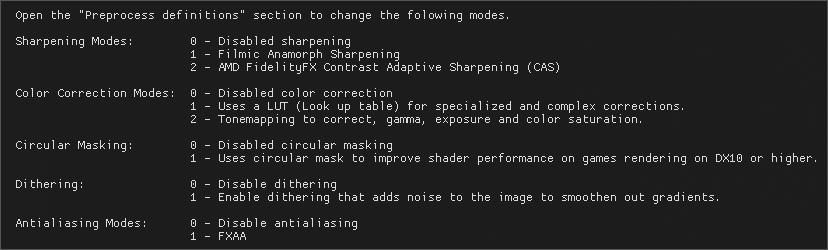
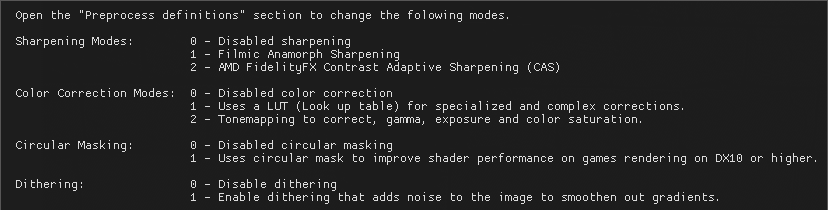
Updated documentation for the new Reshade version and additions

diff --git a/docs/gamelist.md b/docs/gamelist.md
@@ -12,43 +12,44 @@ Additionally they contain color corrections LUT especially created for the game.
 - [GTR 2](https://www.racedepartment.com/downloads/retrolux-reshade-gtr2.42342/)
 - [Richard Burns Rally](https://www.racedepartment.com/threads/reshade-preset-for-rbr.166023/)
 
+### Open XR (Available with ReShade v5.9.3 or higher)
+Games using OpenXR or when you use the OpenXR Toolkit you need to use the [Reshade Setup](https://github.com/retroluxfilm/reshade-vrtoolkit/releases/download/v1.1.0/ReShade.Setup_5.9.3-preview.exe) to
+install the OpenXR ReShade layer to be able to use ReShade. 
 
-### Working
+*Note: ReShade will then be enabled for all open XR Games if you place the vrtoolkit besides the executable of the game*
+
+### Working (Examples)
 Here is a list of tested games that work with ReShade.
 Many more will work and require to figure out what settings it needs.
 Feel free to contribute to get that list up to date :)
 
-| Game                                | DLL         | Rename To      | Extract to Folder                    |
-| ----------------------------------- | -----------:| --------------:|------------------------------------- |
-| American Truck Simulator            |          64 |  dinput8.dll   | bin\win_x64                          |
+| Game                                | DLL |       Rename To | Extract to Folder            |
+| ----------------------------------- |----:|----------------:|------------------------------|
+| American Truck Simulator            |  64 |     dinput8.dll | bin\win_x64                  |
 | [Automobilista 1](https://www.racedepartment.com/downloads/retrolux-reshade-automobilista.30742/)         |
-| Automobilista 2                     |          64 |  dinput8.dll   | next to AMS2.exe                     |
-| Asseto Corsa                        |          64 |  dxgi.dll      | next to AssettoCorsa.exe             |
-| Asseto Corsa Competizione           |          64 |  dxgi.dll      | AC2\Binaries\Win64                   |
-| Beat Saber                          |          64 |  dxgi.dll      | next to "Beat Saber.exe"             |
-| DCS World                           |          64 |  dxgi.dll      | bin                                  |
-| Dirt Rally (With Revive)            |          32 |  dxgi.dll      | next to drt.exe                      |
-| Dirt Rally 2                        |          64 |  dinput8.dll   | next to dirtrally2.exe               |
-| Elite Dangerous                     |          64 |  d3d11.dll     | next to EliteDangerous64.exe         |
-| Euro Truck Simulator 2              |          64 |  dinput8.dll   | bin\win_x64                          |
+| Automobilista 2                     |  64 |     dinput8.dll | next to AMS2.exe             |
+| Asseto Corsa                        |  64 |        dxgi.dll | next to AssettoCorsa.exe     |
+| Asseto Corsa Competizione           |  64 |        dxgi.dll | AC2\Binaries\Win64           |
+| Beat Saber                          |   - | [Open XR]() | next to "Beat Saber.exe"     |
+| DCS World                           |  64 |        dxgi.dll | bin                          |
+| Dirt Rally (With Revive)            |  32 |        dxgi.dll | next to drt.exe              |
+| Dirt Rally 2                        |  64 |     dinput8.dll | next to dirtrally2.exe       |
+| Elite Dangerous                     |  64 |       d3d11.dll | next to EliteDangerous64.exe |
+| Euro Truck Simulator 2              |  64 |     dinput8.dll | bin\win_x64                  |
 | [GTR 2](https://www.racedepartment.com/downloads/retrolux-reshade-gtr2.42342/) |
-| Google Earth VR                     |          64 |  opengl32.dll  | next to Earth.exe                    |
-| Half Life Alyx                      |          64 |  kernel32.dll  | game\bin\win64                       |
-| IL-2 Sturmovik Battle of Stalingrad |          64 |  dxgi.dll      | bin\game                             |
-| Project Cars 2                      |          64 |  dinput8.dll   | next to pCARS2.exe                   |
-| Race Room Experience 64 Bit         |          64 |  dxgi.dll      | Game\x64\                            |    
-| Race Room Experience 32 Bit         |          32 |  dxgi.dll      | Game\                                |
-| [Richard Burns Rally](https://www.racedepartment.com/threads/reshade-preset-for-rbr.166023/) |
-| rFactor 2                           |          64 |  dxgi.dll      | Bin64                                |
-| Skyrim VR                           |          64 |  dxgi.dll      | next to SkyrimVR.exe                 |
-| VR Chat                             |          64 |  dxgi.dll      | next to VRChat.exe                   |
-| VTOL VR                             |          64 |  dxgi.dll      | next to VTOLVR.exe                   |
-| The Walking Dead Saints and Sinners |          64 |  dxgi.dll      | TWD\Binaries\Win64\                  |
-| X-Plane 11                          |          64 |  opengl32.dll  | next to X-Plane.exe                  |
-
-### Not Working
-
-- None reported yet
+| Google Earth VR                     |  64 |    opengl32.dll | next to Earth.exe            |
+| Half Life Alyx                      |  64 |    kernel32.dll | game\bin\win64               |
+| IL-2 Sturmovik Battle of Stalingrad |  64 |        dxgi.dll | bin\game                     |
+| Project Cars 2                      |  64 |     dinput8.dll | next to pCARS2.exe           |
+| Race Room Experience 64 Bit         |  64 |        dxgi.dll | Game\x64\                    |    
+| Race Room Experience 32 Bit         |  32 |        dxgi.dll | Game\                        |
+| [Richard Burns Rally](https://www.racedepartment.com/threads/reshade-preset-for-rbr.166023/) 
+| rFactor 2                           |  64 |        dxgi.dll | Bin64                        |
+| Skyrim VR                           |  64 |        dxgi.dll | next to SkyrimVR.exe         |
+| VR Chat                             |  64 |        dxgi.dll | next to VRChat.exe           |
+| VTOL VR                             |  64 |        dxgi.dll | next to VTOLVR.exe           |
+| The Walking Dead Saints and Sinners |  64 |        dxgi.dll | TWD\Binaries\Win64\          |
+| X-Plane 11                          |  64 |    opengl32.dll | next to X-Plane.exe          |
 
 ## Known Issues
 

diff --git a/docs/presets.md b/docs/presets.md
@@ -9,16 +9,22 @@ Select the prests below by using the arrow buttons on the left side of the prese
 
 `generic_vr` (Default)  
 Base preset is configured to work without modification for almost all VR titles to look 
-natural without adding artifacts.
+natural without adding artifacts. (Custom CAS Sharpening)
 
 `generic_vr+`  
 Sharper than the base preset, balanced to not introduce a lot artifacts. 
 
+`generic_vr++`  
+Sharper than the vr+ preset, which can introduce artifacts or aliasing. (mostly useful for high resolution VR) 
+
 `generic_filmic_vr`  
-Like the base preset but uses "Filmic Anamorph Sharpening" for sharpening instead & dithering to reduce banding.
+Like the base preset but uses "Filmic Anamorphic Sharpening" for sharpening instead & dithering to reduce banding.
 
 `generic_filmic_vr+`  
-Sharper than the filmic preset but introduces artifacts.
+Sharper than the filmic preset, balanced to not introduce a lot artifacts.
+
+`generic_filmic_vr++`  
+Sharper than the filmic+ preset, which can introduce artifacts or aliasing. (mostly useful for high resolution VR)
 
 ### How to select a Preset
 ![VRToolkit presets](./assets/images/vrtoolkit_presets.png "VRToolkit presets")

diff --git a/docs/index.md b/docs/index.md
@@ -12,11 +12,7 @@ to enhance the clarity & sharpness in VR to get most out of your HMD while keepi
 - Sharpening Modes for enhanced clarity while only processing the pixels that are in the sweet spot of your HMD
 - Color Correction Modes to be able to adjust your HMD colors & contrast to your liking
 - Dithering to reduce banding effects of gradients and sharpening artifacts
-- Antialiasing option to reduce aliasing/shimmering effects when the in game AA modes are not enough
 - All modules are processed in a single render pass post shader to improve performance instead of having them all separate
-
-*Note: ReShade currently only works on games run through SteamVR. (OpenVR API)*
-
 
 ### 100% Crop Comparision:
 Check out in full screen to see the difference better.

diff --git a/docs/install.md b/docs/install.md
@@ -15,6 +15,9 @@ Installation
 5. Start up the game and then [Configure your HMD settings](/configuration.html)
 6. *Optional:* Change the [default preset or create your own](/presets.html) 
 
+*Note: For OpenXR Games you need to use the [Reshade Setup](https://github.com/retroluxfilm/reshade-vrtoolkit/releases/download/v1.1.0/ReShade.Setup_5.9.3-preview.exe)*
+
+
 ### Option B: Global
 *(For Experienced Users Only)*
 
